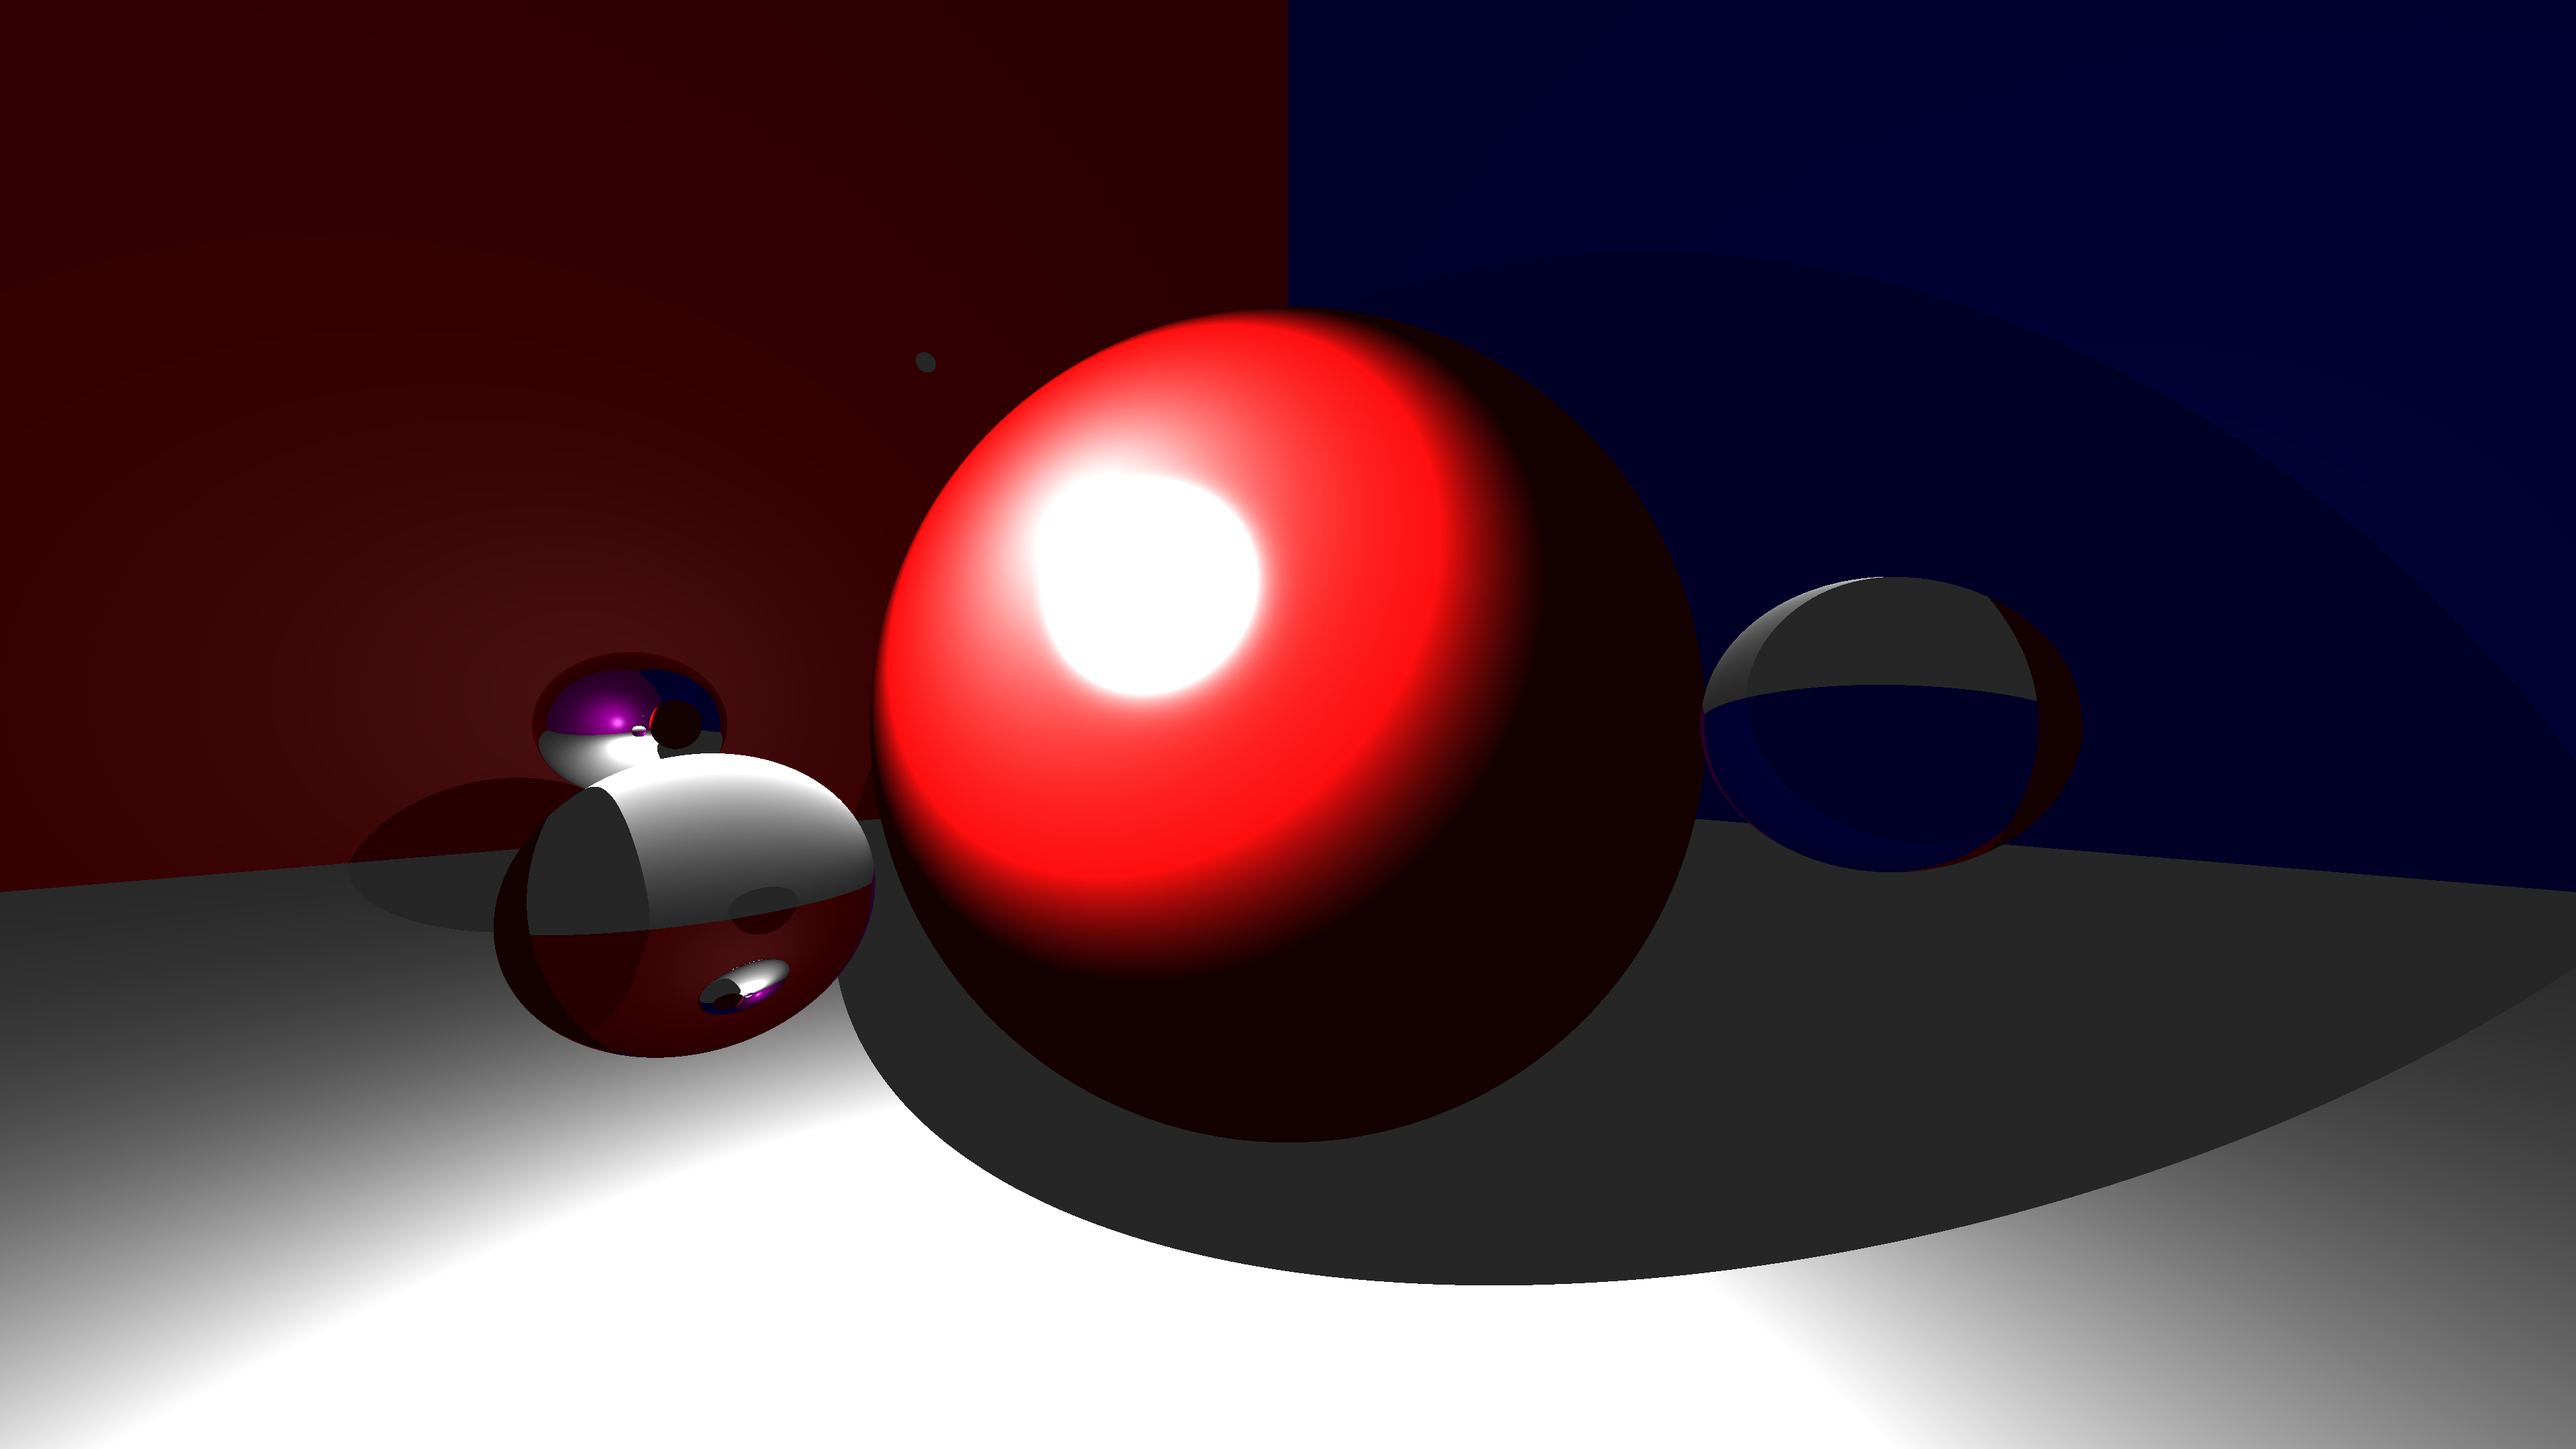
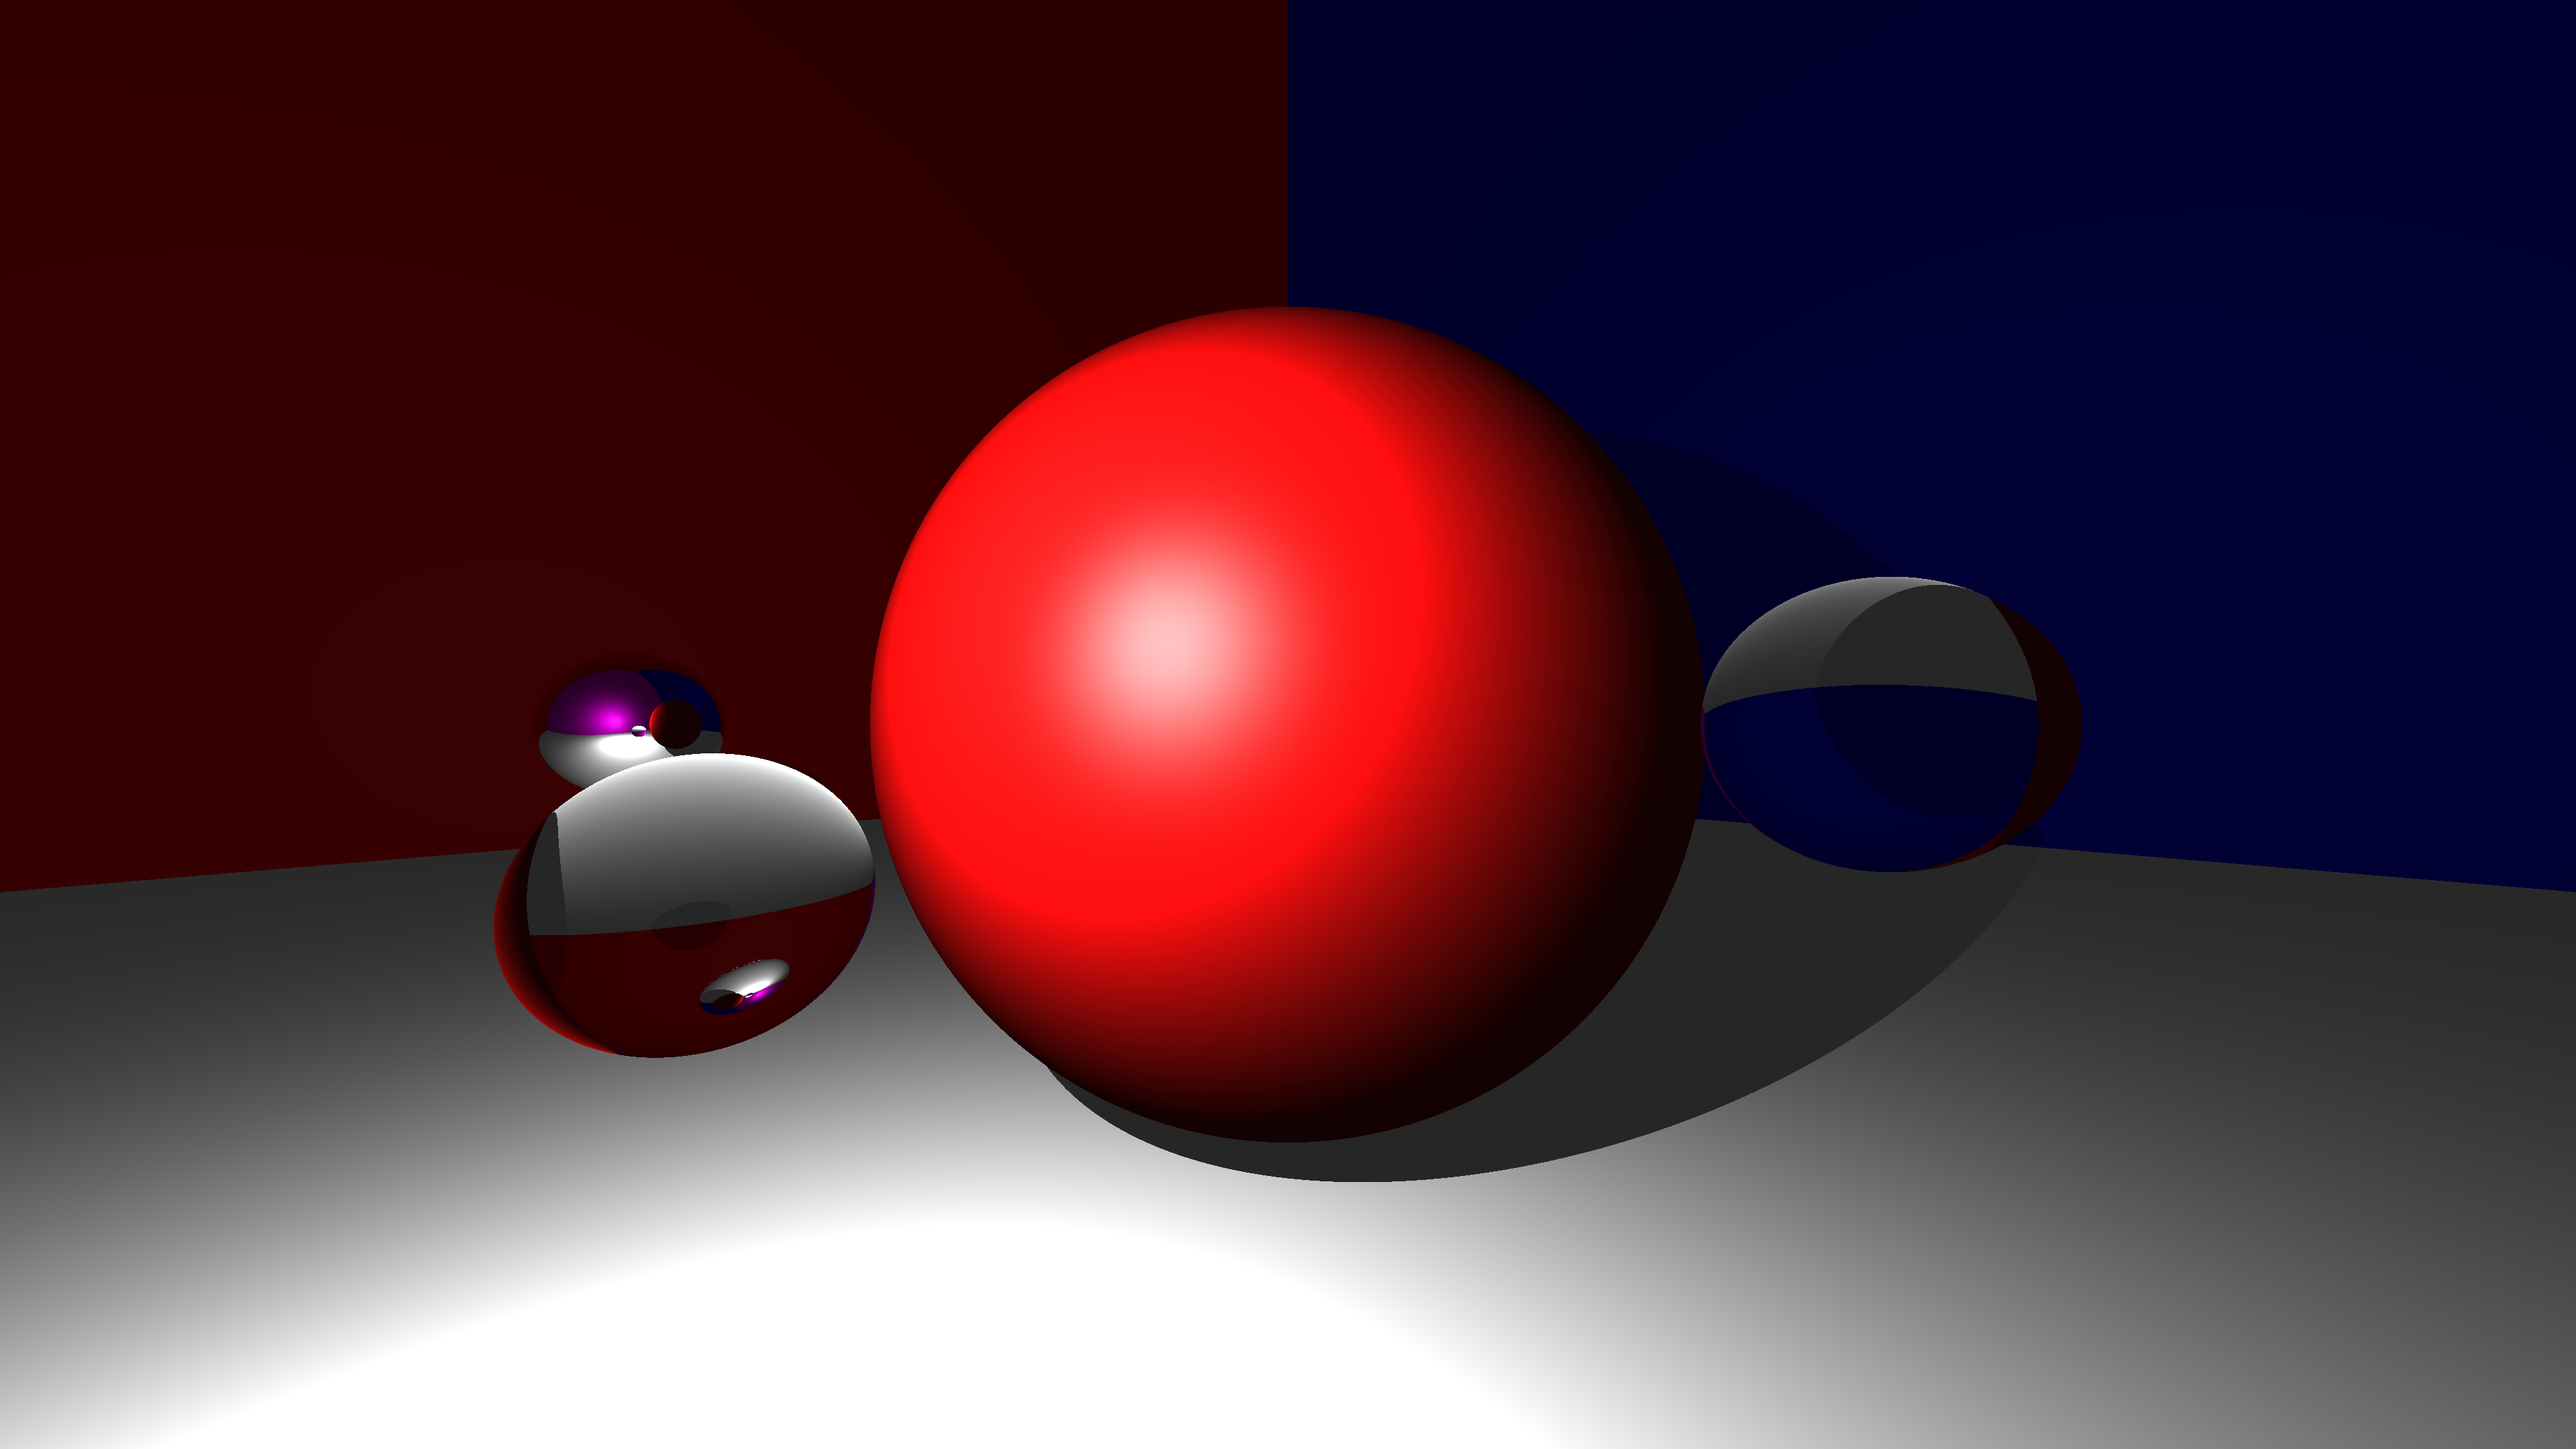
move light, tune specular coefficients. it's ok now

Changed region(s): [[0.0938, 0.1861, 0.9688, 1.0], [0.6875, 0.3722, 0.75, 0.4343], [0.25, 0.6204, 0.2812, 0.6514]]

diff --git a/src/tracer/illumination.rs b/src/tracer/illumination.rs
@@ -14,7 +14,7 @@ pub fn phong_illum(
     q: f64,
     scene: &Scene
 ) -> DVec3 {
-    /* shaded color */
+    /* shaded color, just ambient for now */
     let mut shaded = color * scene.ambient;
 
     /* vector to light from hit point */
@@ -30,14 +30,16 @@ pub fn phong_illum(
         let lu = l.normalize();
 
         /* l mirrored around sphere normal */
-        /* l points in the "wrong direction" but later on, so does h.p,
+        /* r points in the wrong direction but later on, so does h.p,
          * so they cancel out */
         let r = lu - 2.0 * h.n * lu.dot(h.n);
-        shaded += (h.n.dot(lu).max(0.0) * color
-                   /* compute the specular lobe */
-                   + r.dot(h.p.normalize()).max(0.0).powf(q) * spec_coeff)
-        /* scale by reciprocal of squared distance to light */
-            / l.length_squared()
+        shaded += (
+            /* diffuse reflection */
+            h.n.dot(lu).max(0.0) * color
+            /* specular reflection */
+                + r.dot(h.p.normalize()).max(0.0).powf(q) * spec_coeff)
+            /* scale by reciprocal of squared distance to light */
+            / l.length_squared();
     }
 
     shaded

diff --git a/src/tracer/material.rs b/src/tracer/material.rs
@@ -14,8 +14,8 @@ pub enum Material {
 impl Material {
     pub fn shade(&self, h: &Hit, s: &Scene) -> Option<DVec3> {
         /* see phong_illum for meaning */
-        let q = 10.0;
-        let sc = DVec3::splat(0.9);
+        let q = 5.0;
+        let sc = DVec3::splat(0.15);
 
         match self {
             // return opt directlY??

diff --git a/src/tracer/scene.rs b/src/tracer/scene.rs
@@ -45,7 +45,7 @@ impl Scene {
     }
 
     pub fn default() -> Scene {
-        let l = DVec3::new(-0.2, 0.2, -0.4);
+        let l = DVec3::new(-0.3, 0.2, -0.1);
         let debug = Sphere::new(
             l,
             crate::DEBUG_R,

diff --git a/src/tracer/object.rs b/src/tracer/object.rs
@@ -3,6 +3,9 @@ use crate::tracer::ray::Ray;
 use crate::tracer::hit::Hit;
 use crate::tracer::material::Material;
 
+#[cfg(test)]
+mod tests;
+
 pub trait Object {
     // unit length normal at p
     fn normal_at(&self, p: DVec3) -> DVec3;
